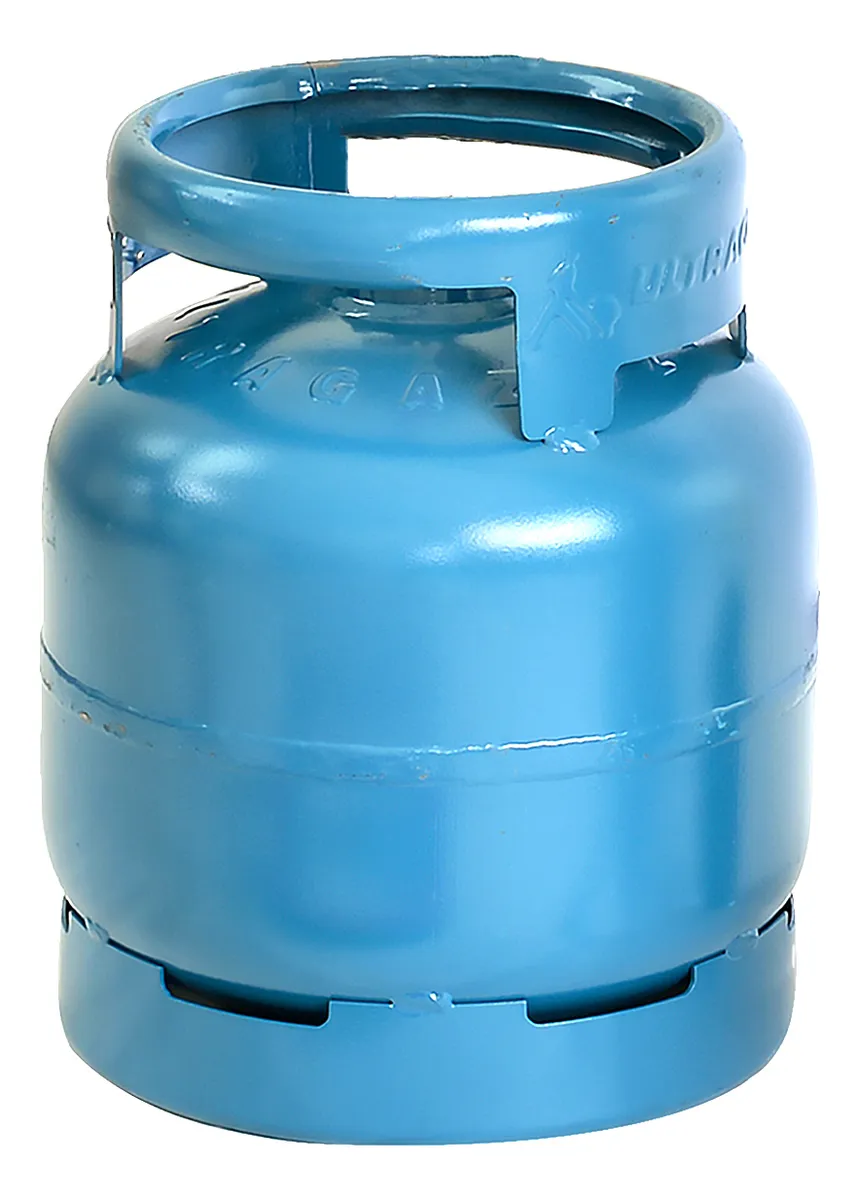
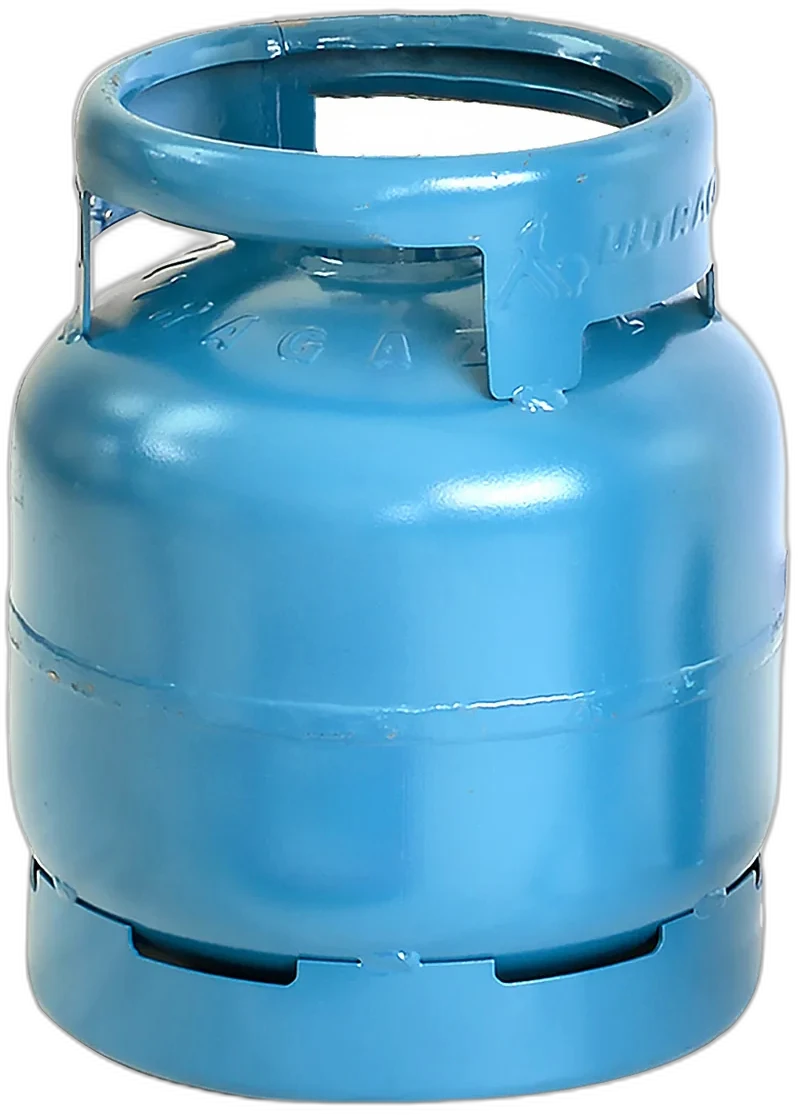
v3.6.0 home: +card produto P5, +FAQ 'vendem gás P5?', +links nav/footer/mobile (interlink /gas-p5/) | gas-p5 v1.0.1: foto hero fundo transparente

diff --git a/index.html b/index.html
@@ -1,7 +1,7 @@
 <!DOCTYPE html>
 <!--
   moskogas.com.br | index.html
-  Versão: 3.5.1 | Atualizado: 2026-04-15 | Descrição: Correção preços card hero: P13 R$109,99 (portaria) e R$129,99 (entrega)
+  Versão: 3.6.0 | Atualizado: 2026-06-13 | Descrição: +card produto P5, +FAQ "vendem gás P5?", +link footer P5 (interlink /gas-p5/)
 -->
 <html lang="pt-BR">
 <head>
@@ -252,6 +252,7 @@
       <li><a href="https://moskogas.com.br/gas-de-cozinha/">Gás de Cozinha</a></li>
       <li><a href="https://moskogas.com.br/gas-de-empilhadeiras-p20/">Gás P20</a></li>
       <li><a href="https://moskogas.com.br/gas-p45/">Gás P45</a></li>
+      <li><a href="https://moskogas.com.br/gas-p5/">Gás P5</a></li>
       <li><a href="https://moskogas.com.br/agua-mineral-em-campo-grande-ms/">Água Mineral</a></li>
       <li><a href="https://moskogas.com.br/vendas-corporativas/">Corporativo</a></li>
       <li><a href="https://moskogas.com.br/sobre-a-mosko-gas/">Sobre</a></li>
@@ -264,6 +265,7 @@
     <a href="https://moskogas.com.br/gas-de-cozinha/">Gás de Cozinha</a>
     <a href="https://moskogas.com.br/gas-de-empilhadeiras-p20/">Gás P20</a>
     <a href="https://moskogas.com.br/gas-p45/">Gás P45</a>
+    <a href="https://moskogas.com.br/gas-p5/">Gás P5</a>
     <a href="https://moskogas.com.br/agua-mineral-em-campo-grande-ms/">Água Mineral</a>
     <a href="https://moskogas.com.br/vendas-corporativas/">Vendas Corporativas</a>
     <a href="https://moskogas.com.br/sobre-a-mosko-gas/">Sobre nós</a>
@@ -370,7 +372,7 @@
 <!-- PRODUTOS -->
 <section class="produtos">
   <div class="container">
-    <h2 class="section-title">Gás Campo Grande MS — P13, P20 e P45</h2>
+    <h2 class="section-title">Gás Campo Grande MS — P5, P13, P20 e P45</h2>
     <p class="section-sub">Revenda autorizada Ultragaz. Botijões lacrados, nota fiscal, entrega em toda Campo Grande MS.</p>
     <div class="produtos-grid">
       <div class="produto-card">
@@ -398,6 +400,15 @@
           <h3>Gás P45 — Industrial</h3>
           <p>Gás P45 para restaurantes, comércios e indústrias em Campo Grande MS. Entrega programada ou imediata, conforme normas técnicas.</p>
           <a class="btn-produto" href="https://wa.me/[phone redacted]?text=Ol%C3%A1%2C%20quero%20pedir%20g%C3%A1s%20P45" target="_blank" rel="noopener">👉 Pedir gás P45 Agora</a>
+        </div>
+      </div>
+      <div class="produto-card">
+        <div class="produto-card-img"><img src="/cdn-cgi/image/quality=85,format=auto/images/gas-p5-botijao-5kg-campo-grande-moskogas.webp" alt="Botijão Gás P5 5kg portátil Campo Grande MS — pescaria camping churrasco" width="115" height="160" loading="lazy"></div>
+        <div class="produto-card-body">
+          <span class="produto-tag">Portátil / Lazer</span>
+          <h3>Botijão P5 — 5kg Portátil</h3>
+          <p>Botijão de <strong>5kg</strong> leve para <strong>pescaria, camping, churrasco e food truck</strong>. R$ 99,99 na portaria. <a href="/gas-p5/" style="color:var(--azul-medio);font-weight:700;text-decoration:underline">Ver usos do P5 →</a></p>
+          <a class="btn-produto" href="https://wa.me/[phone redacted]?text=Ol%C3%A1%2C%20quero%20pedir%20um%20bot%C3%ADj%C3%A3o%20de%20g%C3%A1s%20P5%20(5kg)" target="_blank" rel="noopener">👉 Pedir gás P5 Agora</a>
         </div>
       </div>
     </div>
@@ -507,6 +518,11 @@
       </div>
 
       <div class="faq-item">
+        <button class="faq-btn">Vocês vendem gás P5 (botijão de 5kg) em Campo Grande?</button>
+        <div class="faq-content"><p>Sim! Temos o <strong>botijão P5 de 5kg</strong> por <strong>R$ 99,99 na portaria</strong>. É portátil e leve — ideal para <strong>pescaria, camping, churrasqueira a gás, food truck e barraca</strong>. Usa a mesma válvula do P13, encaixando no seu regulador e fogão. <a href="/gas-p5/">Veja a página do Gás P5 e seus usos</a>.</p></div>
+      </div>
+
+      <div class="faq-item">
         <button class="faq-btn">GLP (botijão) é a mesma coisa que gás natural?</button>
         <div class="faq-content"><p>Não. O GLP é o gás do botijão (P13, P20, P45). O gás natural normalmente é fornecido por rede encanada quando existe no local. Se você não sabe qual é o seu, envie seu bairro no WhatsApp e a gente orienta.</p></div>
       </div>
@@ -595,6 +611,7 @@
       <a href="https://moskogas.com.br/gas-de-cozinha/">Gás de Cozinha</a>
       <a href="https://moskogas.com.br/gas-de-empilhadeiras-p20/">Gás P20</a>
     <a href="https://moskogas.com.br/gas-p45/">Gás P45</a>
+      <a href="https://moskogas.com.br/gas-p5/">Gás P5</a>
       <a href="https://moskogas.com.br/whatsappgas/">WhatsApp (67) [phone redacted]</a>
       <a href="https://moskogas.com.br/gas-do-povo-em-campo-grande-ms/">Gás do Povo</a>
       <a href="https://moskogas.com.br/disk-gas-em-campo-grande-ms/">Disk Gás</a>
@@ -908,6 +925,14 @@
       "acceptedAnswer": {
         "@type": "Answer",
         "text": "Na maioria dos casos sim — funciona como troca do vasilhame vazio por um cheio. Se você não tem o vasilhame, consulte as condições pelo WhatsApp (67) [phone redacted]."
+      }
+    },
+    {
+      "@type": "Question",
+      "name": "Vocês vendem gás P5 (botijão de 5kg) em Campo Grande?",
+      "acceptedAnswer": {
+        "@type": "Answer",
+        "text": "Sim. Temos o botijão P5 de 5kg por R$ 99,99 na portaria. É portátil, ideal para pescaria, camping, churrasqueira a gás, food truck e barraca. Usa a mesma válvula do P13."
       }
     },
     {

diff --git a/gas-p5/index.html b/gas-p5/index.html
@@ -1,6 +1,6 @@
 <!DOCTYPE html>
 <!--
-  gas-p5/index.html | Versão: 1.0.0 | Atualizado: 2026-06-13 | Descrição: Página produto Gás P5 (botijão 5kg portátil) — foco em usos (pescaria, camping, churrasco, food truck)
+  gas-p5/index.html | Versão: 1.0.1 | Atualizado: 2026-06-13 | Descrição: Página produto Gás P5 (5kg portátil) — foco em usos. v1.0.1: imagem hero com fundo transparente
 -->
 <html lang="pt-BR">
 <head>